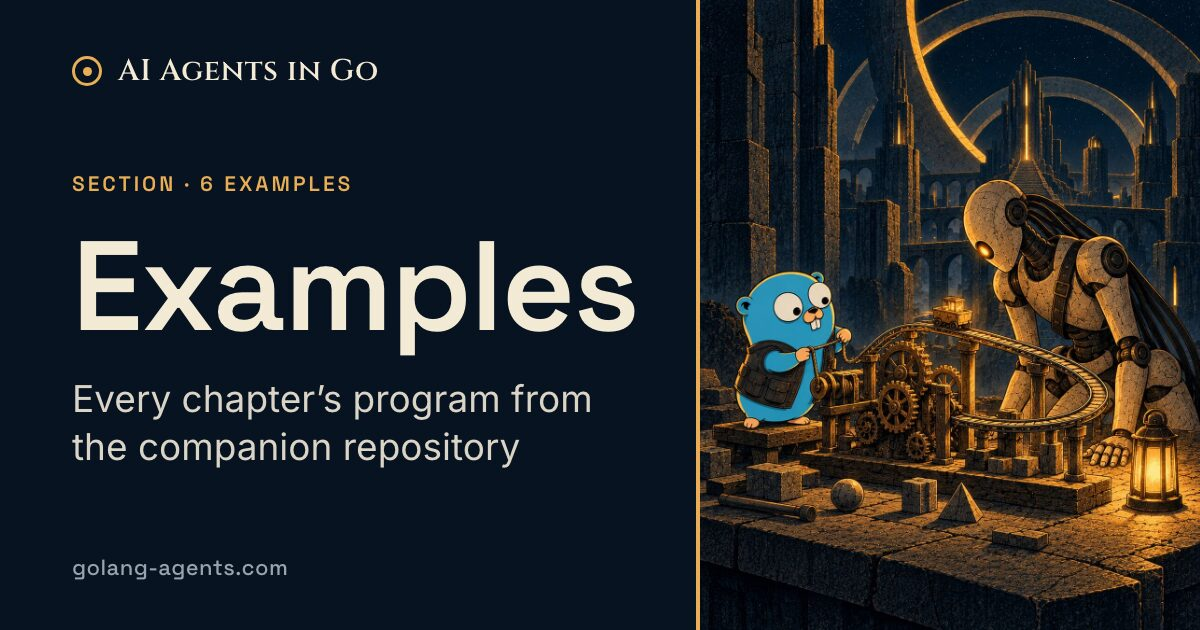
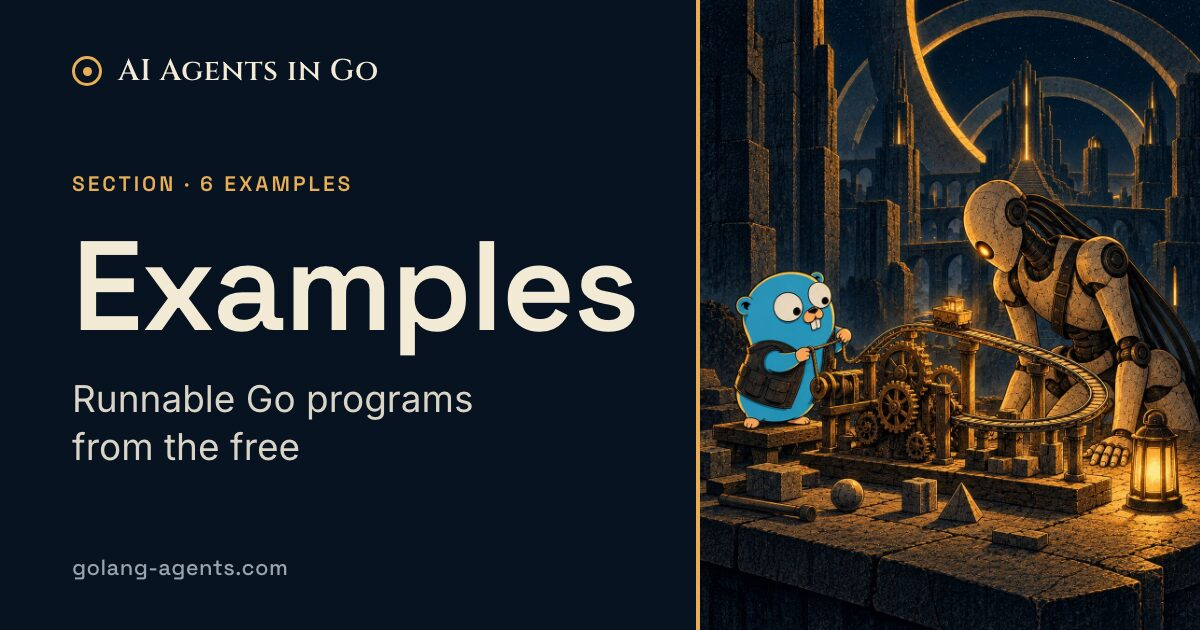
Examples: say up front that these are the book's free companion programs

Changed region(s): [[0.0617, 0.6032, 0.4933, 0.6635], [0.0617, 0.6937, 0.4317, 0.754]]

diff --git a/content/run/_index.md b/content/run/_index.md
@@ -1,7 +1,11 @@
 ---
 title: Examples
-description: Every chapter's program from the companion repository, and the examples beyond the chapters, with what each shows, its size and test count computed from the code, and the command that runs it offline from recorded model replies.
+description: Runnable Go programs from the free, open-source companion code of Building AI Agents in Go, one for each chapter plus a few extras, each with what it shows and the command that runs it offline.
 ---
+
+These programs are the companion code of the book [*Building AI Agents in Go*](/book/).
+The code is free and open source (Apache 2.0), and you don't need the book to run it: the guides on this site explain each program.
+The repository holds one directory per chapter, `ch01` to `ch17`, and each is a complete, working copy of the agent as it stands at the end of that chapter, so `ch01` is a 30-line loop and `ch17` is the finished crash-triage agent.
 
 Every example runs without an API key.
 With no `OPENROUTER_API_KEY` set, a program replays model replies recorded from a real run, while its tools, including `go test`, run for real on your machine.
@@ -18,7 +22,7 @@ New here? Run `ch01` first: it is the whole [agent loop](/basics/agent-loop/) wi
 Then run `ch04`, the same task with a real model's recorded replies and a real `go test`.
 Their pages, [ch01](/run/ch01-scripted-loop/) and [ch04](/run/ch04-first-agent/), explain each line of the output.
 
-## Every chapter's program
+## One program per chapter
 
 Each chapter's directory is a full snapshot of the agent at that point, so any row runs without the ones above it.
 The last five rows are examples beyond the chapter snapshots: the [workflow shapes](/build/workflows-vs-agents/) `ch05` names and an agent's [progress streamed to a browser](/run/stream-to-browser/), both built on `ch06`'s agent, a standalone [first agent](/build/first-agent/) that a tutorial builds from scratch, and [retrieval over a set of documents](/build/rag/) and [memory between sessions](/build/memory/), which the book doesn't cover.
